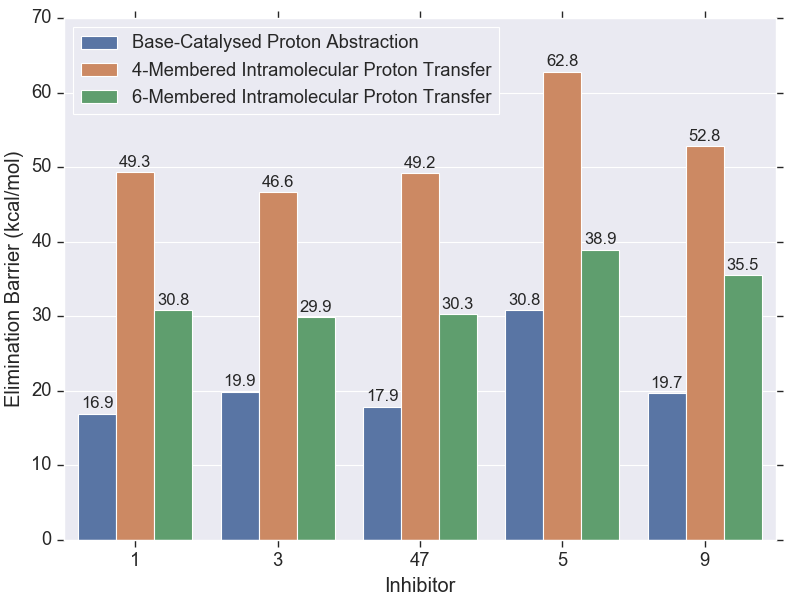
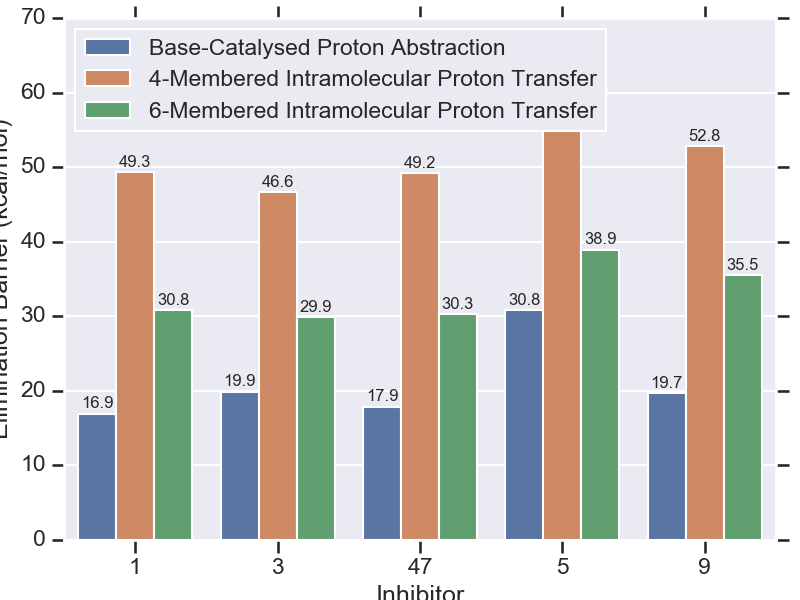
Updated figures

diff --git a/QM/ackley.py b/QM/ackley.py
@@ -1,0 +1,182 @@
+import numpy as np
+
+
+def ackley(x, a=20, b=0.2, c=2*np.pi):
+    """
+    x: vector of input values
+    """
+    d = len(x) # dimension of input vector x
+    sum_sq_term = -a * np.exp(-b * np.sqrt(sum(x*x) / d))
+    cos_term = -np.exp(sum(np.cos(c*x) / d))
+
+    return a + np.exp(1) + sum_sq_term + cos_term
+
+
+# The values in the array should range between -32 and 32
+MIN_RANGE = -4
+MAX_RANGE = 4
+
+
+def rand_sample(rand_seed, num_samples):
+    d = len(rand_seed)
+    min_xs = rand_seed
+    min_y = ackley(rand_seed)
+
+    for _ in range(num_samples):
+        curr_x = np.random.rand(d) * (MAX_RANGE - MIN_RANGE) + MIN_RANGE
+        curr_y = ackley(curr_x)
+        if curr_y < min_y:
+            min_xs = curr_x
+            min_y = curr_y
+
+    return min_xs, min_y
+
+
+def best_neighbor(min_xs, min_y, x_idx, step_size):
+    next_xs = np.copy(min_xs)
+    prev_xs = np.copy(min_xs)
+    next_xs[x_idx] += step_size
+    prev_xs[x_idx] -= step_size
+
+    next_y = ackley(next_xs)
+    prev_y = ackley(prev_xs)
+    next_y_diff = min_y - next_y
+    prev_y_diff = min_y - prev_y
+
+    curr_diff = 0
+
+    if prev_y_diff > next_y_diff:
+        if prev_y_diff > 0:
+            min_xs = prev_xs
+            min_y = prev_y
+            curr_diff = prev_y_diff
+    elif prev_y_diff < next_y_diff:
+        if next_y_diff > 0:
+            min_xs = next_xs
+            min_y = next_y
+            curr_diff = next_y_diff
+    else:
+        if prev_y_diff > 0:
+            r = np.random.rand()
+            if r < 0.5:
+                min_xs = prev_xs
+                min_y = prev_y
+                curr_diff = prev_y_diff
+            else:
+                min_xs = next_xs
+                min_y = next_y
+                curr_diff = next_y_diff
+    return min_xs, min_y, curr_diff
+
+
+def hill_climb(rand_seed, step_size, epsilon=1e-9):
+    d = len(rand_seed)
+    min_xs = rand_seed
+    min_y = ackley(rand_seed)
+
+    for x_idx in range(d):
+        curr_diff = np.inf
+        num_iter = 0
+        while curr_diff > epsilon and num_iter < 10000:
+            min_xs, min_y, curr_diff = best_neighbor(min_xs, min_y, x_idx, step_size)
+            num_iter += 1
+
+    return min_xs, min_y
+
+
+def temperature(curr, total):
+    return 1 - curr/total
+
+
+def simulated_annealing(rand_seed, step_size, num_samples, epsilon=1e-9):
+    d = len(rand_seed)
+    min_xs = rand_seed
+    min_y = ackley(rand_seed)
+
+    for x_idx in range(d):
+        curr_xs = min_xs
+        curr_y = min_y
+
+        for i in range(num_samples):
+            T = temperature(i, num_samples)
+            rand = np.random.random()
+            if T > rand:
+                curr_xs[x_idx] = np.random.random() * (MAX_RANGE - MIN_RANGE) + MIN_RANGE
+                curr_y = ackley(curr_xs)
+                if curr_y < min_y:
+                    min_xs = curr_xs
+                    min_y = curr_y
+            else:
+                min_xs, min_y, curr_diff = best_neighbor(min_xs, min_y, x_idx, step_size)
+
+    return min_xs, min_y
+
+
+class Particle:
+    """
+    Particle for PSO algorithm
+    """
+    def __init__(self, dim):
+        self.dim = dim
+        self.position = np.random.rand(dim) * (MAX_RANGE - MIN_RANGE) + MIN_RANGE
+        self.best_position = self.position
+        self.best_value = ackley(self.position)
+        self.velocity = np.random.rand(dim) * (MAX_RANGE - MIN_RANGE) + MIN_RANGE
+
+    def update_velocity(self, c, cp, cg, g):
+        for d in range(self.dim):
+            rp = np.random.random()
+            rg = np.random.random()
+            self.velocity[d] = (c * self.velocity[d] +
+                                cp*rp*(self.best_position[d] - self.position[d]) +
+                                cg*rg*(g[d] - self.position[d]))
+
+    def update_position(self):
+        self.position += self.velocity
+        new_value = ackley(self.position)
+        if new_value < self.best_value:
+            self.best_position = self.position
+            self.best_value = new_value
+        return self.position, self.best_value
+
+
+def pso(num_iter, num_particles, dim, c, cp, cg):
+    """
+    Particle Swarm Optimization
+    """
+    seed_p = Particle(dim)
+    particles = [seed_p]
+
+    best_global_position = seed_p.best_position
+    best_global_value = seed_p.best_value
+
+    for _ in range(num_particles-1):
+        p = Particle(dim)
+        if p.best_value < best_global_value:
+            best_global_position = p.best_position
+            best_global_value = p.best_value
+
+        particles.append(p)
+
+    for _ in range(num_iter):
+        for particle in particles:
+            particle.update_velocity(c, cp, cg, best_global_position)
+            new_position, new_value = particle.update_position()
+            if new_value < best_global_value:
+                best_global_position = new_position
+                best_global_value = new_value
+
+    return best_global_position, best_global_value
+
+
+if __name__ == "__main__":
+    dim = 2
+    rand_seed = np.random.rand(dim) * (MAX_RANGE - MIN_RANGE) + MIN_RANGE
+    print("                                      Random Seed:", (rand_seed, ackley(rand_seed)))
+    print("                    Random Sampling (100 samples):", rand_sample(rand_seed, 100))
+    print("                   Random Sampling (1000 samples):", rand_sample(rand_seed, 1000))
+    print("                  Random Sampling (10000 samples):", rand_sample(rand_seed, 10000))
+    print("                         Hill Climbing (0.1 step):", hill_climb(rand_seed, step_size=0.1))
+    print("           Simulated Annealing (0.1 step, 10000s):", simulated_annealing(rand_seed, step_size=0.1, num_samples=10000))
+    print("PSO (num_iter=100,part=1000, c,cp,cg=0.5,0.5,0.1):", pso(num_iter=100, num_particles=1000, dim=dim, c=0.5, cp=0.5, cg=0.1))
+

diff --git a/QM/visualG/plot_fig.py b/QM/visualG/plot_fig.py
@@ -14,7 +14,7 @@ from QM.run_gaussian.settings import DATA_PATH
 from QM.visualG.plot_config import combination_dict, charge_list, charge_list_A, charge_list_B, DI_list, \
     benchmarking_data, barrier_data
 
-sns.set(context='paper', font_scale=1.5)
+sns.set(context='talk', font_scale=0.9)
 # sns.despine()  # Remove "chartjunk"
 
 SINGLE_PLOT_WIDTH, SINGLE_PLOT_HEIGHT = 6, 4
@@ -22,7 +22,7 @@ TWO_PLOT_WIDTH, TWO_PLOT_HEIGHT = 9, 3.5
 FOUR_PLOTS_WIDTH, FOUR_PLOTS_HEIGHT = 8, 6
 SIX_PLOTS_WIDTH, SIX_PLOTS_HEIGHT = 8, 10
 EIGHT_PLOTS_WIDTH, EIGHT_PLOTS_HEIGHT = 10, 14
-BAR_PLOTS_WIDTH, BAR_PLOTS_HEIGHT = 10, 5
+BAR_PLOTS_WIDTH, BAR_PLOTS_HEIGHT = 8, 5
 
 
 def lin_reg(m, c, r2, xlimit, leg_loc, font_size="x-small"):
@@ -40,15 +40,20 @@ if __name__ == "__main__":
         # Statistical Measures
         df = pd.DataFrame(benchmarking_data)
         fig = plt.figure(figsize=(BAR_PLOTS_WIDTH, BAR_PLOTS_HEIGHT))
-        fig.subplots_adjust(top=0.98, bottom=0.12, left=0.08, right=0.98)
-        ax = sns.barplot(x="Method", y="Error (kcal/mol)", data=df, hue="Measure", palette="deep")
+        fig.subplots_adjust(top=0.95, bottom=0.15, left=0.1, right=0.98)
+        data = df.groupby("Error (kcal/mol)").size()
+        pal = sns.dark_palette("purple", len(data), reverse=True)
+        rank = data.argsort().argsort()
+        ax = sns.barplot(x="Method", y="Error (kcal/mol)", data=df, palette=np.array(pal[::-1])[rank], alpha=0.95)
         for p in ax.patches:
             ax.annotate(format(p.get_height(), ".1f"), (p.get_x()+p.get_width()/2., p.get_height()), ha="center",
-                        va="center", xytext=(0, 4), textcoords="offset pixels", fontsize=9)
-        leg = ax.legend(); leg.set_title("")
-        plt.legend(loc='upper right'); plt.ylim(None, 5.0); plt.xlim(None, None)
+                        va="center", xytext=(0, 8), textcoords="offset pixels", fontsize=16)
+        # leg = ax.legend(); leg.set_title("")
+        # plt.legend(loc='upper right'); plt.ylim(None, 5.0); plt.xlim(None, None)
+        ax.set(ylabel="Root-Mean-Square Error (kcal/mol)")
+        plt.ylim(None, 5)
         plt.savefig("Benchmarking Statistical Measures")
-        # plt.show()
+        plt.show()
 
         # Elimination Barriers
         df = pd.DataFrame(barrier_data)
@@ -61,7 +66,7 @@ if __name__ == "__main__":
         leg = ax.legend(); leg.set_title("")
         plt.legend(loc='upper left'); plt.ylim(None, None); plt.xlim(None, None)
         plt.savefig("Elimination Barrier for Different Mechanisms")
-        plt.show()
+        # plt.show()
 
     elif analysis_type == "Regression":
         combination = "CombinationI"
@@ -70,6 +75,23 @@ if __name__ == "__main__":
         print(df)
         prop_dict = combination_dict[combination[-1]]
 
+        # Inhibitor Distortion Energy
+        chosen_dict = prop_dict["DI"]["Inhibitor"]
+        m, c, r2, x_axis, y_axis, leg, fontsize = chosen_dict["M"], chosen_dict["C"], chosen_dict["R2"], chosen_dict[
+            "X-AXIS"], chosen_dict["Y-AXIS"], chosen_dict["LEG"], chosen_dict["FONTSIZE"]
+        fig = plt.figure(figsize=(SINGLE_PLOT_WIDTH, SINGLE_PLOT_HEIGHT))
+        fig.subplots_adjust(top=0.99, bottom=0.05, left=0.02, right=0.99)
+        ax = sns.scatterplot(x="Inhibitor Distortion Energy (kcal/mol)", y="Addition Barrier (kcal/mol)", data=df, hue="Inhibitor", legend=False, s=100)
+        ax.set(xlabel=r"Inhibitor Distortion Energy (kcal/mol)")
+        ax.set(ylabel=u"$\Delta G^\u2021$ (kcal/mol)")
+        for line in range(1, df.shape[0] + 1):
+            ax.text(df["Inhibitor Distortion Energy (kcal/mol)"][line] + x_axis, df["Addition Barrier (kcal/mol)"][line] + y_axis,
+                    df["Inhibitor"][line], horizontalalignment='center', size='small', color='black')
+        lin_reg(m, c, r2, plt.xlim(), leg, fontsize)
+        plt.ylim(None, None); plt.xlim(None, None)
+        plt.tight_layout()
+        plt.savefig(r"{0}/Inhibitor Distortion Energy".format(combination))
+
         # TS S-C Distance
         chosen_dict = prop_dict["SC"]
         m, c, r2, x_axis, y_axis, leg, fontsize = chosen_dict["M"], chosen_dict["C"], chosen_dict["R2"], chosen_dict[
@@ -77,7 +99,7 @@ if __name__ == "__main__":
         fig = plt.figure(figsize=(SINGLE_PLOT_WIDTH, SINGLE_PLOT_HEIGHT))
         fig.subplots_adjust(top=0.99, bottom=0.05, left=0.05, right=0.99)
         ax = sns.scatterplot(x="TS S-C Distance (A)", y="Addition Barrier (kcal/mol)", data=df, hue="Inhibitor", legend=False, s=100)
-        ax.set(xlabel=r"TS S-C$\beta$ Distance ($\AA$)")
+        ax.set(xlabel=r"Transition State S-C$\beta$ Distance ($\AA$)")
         ax.set(ylabel=u"$\Delta G^\u2021$ (kcal/mol)")
         for line in range(1, df.shape[0] + 1):
             ax.text(df["TS S-C Distance (A)"][line] + x_axis, df["Addition Barrier (kcal/mol)"][line] + y_axis,
@@ -104,6 +126,7 @@ if __name__ == "__main__":
         plt.savefig("{0}/Inhibitor LUMO Energy".format(combination))
         # plt.show()
 
+        raise
         # Beta-Carbon Charges
         fig = plt.figure(figsize=(EIGHT_PLOTS_WIDTH, EIGHT_PLOTS_HEIGHT))
         fig.subplots_adjust(top=0.9, bottom=0.1, left=0.1, right=0.95, wspace=0.3, hspace=0.45)

diff --git a/QM/visualG/plot_config.py b/QM/visualG/plot_config.py
@@ -12,18 +12,9 @@ charge_list_A = ["QTAIM", "Omega"]
 charge_list_B = ["Mulliken", "NBO", "MK", "Hirshfeld", "CM5", "ChelpG"]
 DI_list = ["Thiolate", "Inhibitor", "Activation", "Interaction"]
 
-benchmarking_data = {"Measure": ["MAD", "MAD", "MAD", "MAD", "MAD", "MAD", "MAD", "MAD", "MAD", "MAD",
-                                 "RMSD", "RMSD", "RMSD", "RMSD", "RMSD", "RMSD", "RMSD", "RMSD", "RMSD", "RMSD",
-                                 "Corrected MAD", "Corrected MAD", "Corrected MAD", "Corrected MAD", "Corrected MAD", "Corrected MAD", "Corrected MAD", "Corrected MAD", "Corrected MAD", "Corrected MAD",
-                                 "Corrected RMSD", "Corrected RMSD", "Corrected RMSD", "Corrected RMSD", "Corrected RMSD", "Corrected RMSD", "Corrected RMSD", "Corrected RMSD", "Corrected RMSD", "Corrected RMSD"],
-                     "Method": ["A", "B", "C", "D", "E", "F", "G", "H", "I", "J",
-                                "A", "B", "C", "D", "E", "F", "G", "H", "I", "J",
-                                "A", "B", "C", "D", "E", "F", "G", "H", "I", "J",
-                                "A", "B", "C", "D", "E", "F", "G", "H", "I", "J"],
-                     "Error (kcal/mol)": [4.0, 1.4, 0.8, 2.3, 3.0, 1.9, 1.7, 1.3, 0.7, 0.7,
-                               4.1, 1.4, 1.1, 2.4, 3.3, 2.0, 1.7, 1.2, 1.1, 1.0,
-                               4.5, 1.5, 0.5, 2.6, 3.6, 2.1, 1.7, 1.0, 0.3, 0.4,
-                               4.5, 1.5, 0.6, 2.6, 3.6, 2.1, 1.8, 1.0, 0.4, 0.5]}
+benchmarking_data = {"Measure": ["RMSD", "RMSD", "RMSD", "RMSD", "RMSD", "RMSD", "RMSD", "RMSD", "RMSD", "RMSD"],
+                     "Method": ["A", "B", "C", "D", "E", "F", "G", "H", "I", "J"],
+                     "Error (kcal/mol)": [0.6, 1.0, 4.5, 2.1, 2.6, 1.8, 3.6, 0.5, 1.5, 0.4]}
 
 barrier_data = {"Mechanism": ["Base-Catalysed Proton Abstraction", "Base-Catalysed Proton Abstraction", "Base-Catalysed Proton Abstraction", "Base-Catalysed Proton Abstraction", "Base-Catalysed Proton Abstraction",
                               "4-Membered Intramolecular Proton Transfer", "4-Membered Intramolecular Proton Transfer", "4-Membered Intramolecular Proton Transfer", "4-Membered Intramolecular Proton Transfer", "4-Membered Intramolecular Proton Transfer",
@@ -167,11 +158,14 @@ combination_dict = {
                 "M": 0.8082,
                 "C": 5.3355,
                 "R2": 0.9760,
-                "X-AXIS": -1.0,
-                "Y-AXIS": 0.7,
+                "X-AXIS": -0.5,
+                "Y-AXIS": 0.3,
+                # "X-AXIS": -1.0,
+                # "Y-AXIS": 0.7,
                 "LEG": "best",
                 "ALIGN": "left",
-                "FONTSIZE": "x-small",
+                "FONTSIZE": "medium",
+                # "FONTSIZE": "x-small",
                 "X-NAME": "Inhibitor Distortion Energy (kcal/mol)"
             },
             "Activation": {

diff --git a/QM/plot_ackley.py b/QM/plot_ackley.py
@@ -1,0 +1,47 @@
+from mpl_toolkits.mplot3d import Axes3D
+import matplotlib.pyplot as plt
+from matplotlib import cm
+import numpy as np
+
+from QM.ackley import ackley
+
+
+def plot_ackley_3d(fig_name):
+    fig = plt.figure()
+    ax = fig.gca(projection='3d')
+
+    # Make data.
+    X = np.arange(-1, 4, 5/2000)
+    Y = np.arange(-4, 2, 6/2000)
+    X, Y = np.meshgrid(X, Y)
+
+    a = 10
+    b = 0.2
+    c = 2 * np.pi
+
+    sum_sq_term = -a * np.exp(-b * np.sqrt(X*X + Y*Y) / 2)
+    cos_term = -np.exp((np.cos(c*X) + np.cos(c*Y)) / 2)
+    Z = a + np.exp(1) + sum_sq_term + cos_term
+
+    # Plot the surface.
+    surf = ax.plot_surface(X, Y, Z, cmap=cm.jet, lw=0.5, rstride=50, cstride=50, antialiased=False, alpha=1)
+    # Add a color bar which maps values to colors.
+    # fig.colorbar(surf, shrink=0.5, aspect=5)
+    ax.view_init(elev=27, azim=195)
+    # fig = plt.gcf()
+    # fig.set_size_inches(20, 16)
+    plt.axis('off')
+    plt.tight_layout()
+    plt.savefig(fig_name, transparent=True)
+    plt.show()
+
+
+def plot_ackley_2d():
+    x = np.arange(-32, 33)
+    y = [ackley(np.array([x_i])) for x_i in x]
+    plt.plot(x,y)
+    plt.show()
+
+
+if __name__ == "__main__":
+    plot_ackley_3d("PES_3")

diff --git a/QM/calculation.py b/QM/calculation.py
@@ -57,10 +57,10 @@ def exp_time(k, t_half, RT):
 
 if __name__ == "__main__":
     T = 310.15  # Temperature, assumes RT at the moment [K]
-    k, dGbarr = None, None  # off rate [s^-1], elimination barrier [kcal/mol]
-    t_half, RT = None, 24*60  # half_life [s], residence time [s]
-    #k, dGbarr = eyring(k, dGbarr, T)
-    k, t_half, RT = exp_time(k, t_half, RT)
+    k, dGbarr = None, 30.8  # off rate [s^-1], elimination barrier [kcal/mol]
+    t_half, RT = None, None  # half_life [s], residence time [s]
     k, dGbarr = eyring(k, dGbarr, T)
+    k, t_half, RT = exp_time(k, t_half, RT)
+    #k, dGbarr = eyring(k, dGbarr, T)
     print("\n--------------------------------------Done")
 
